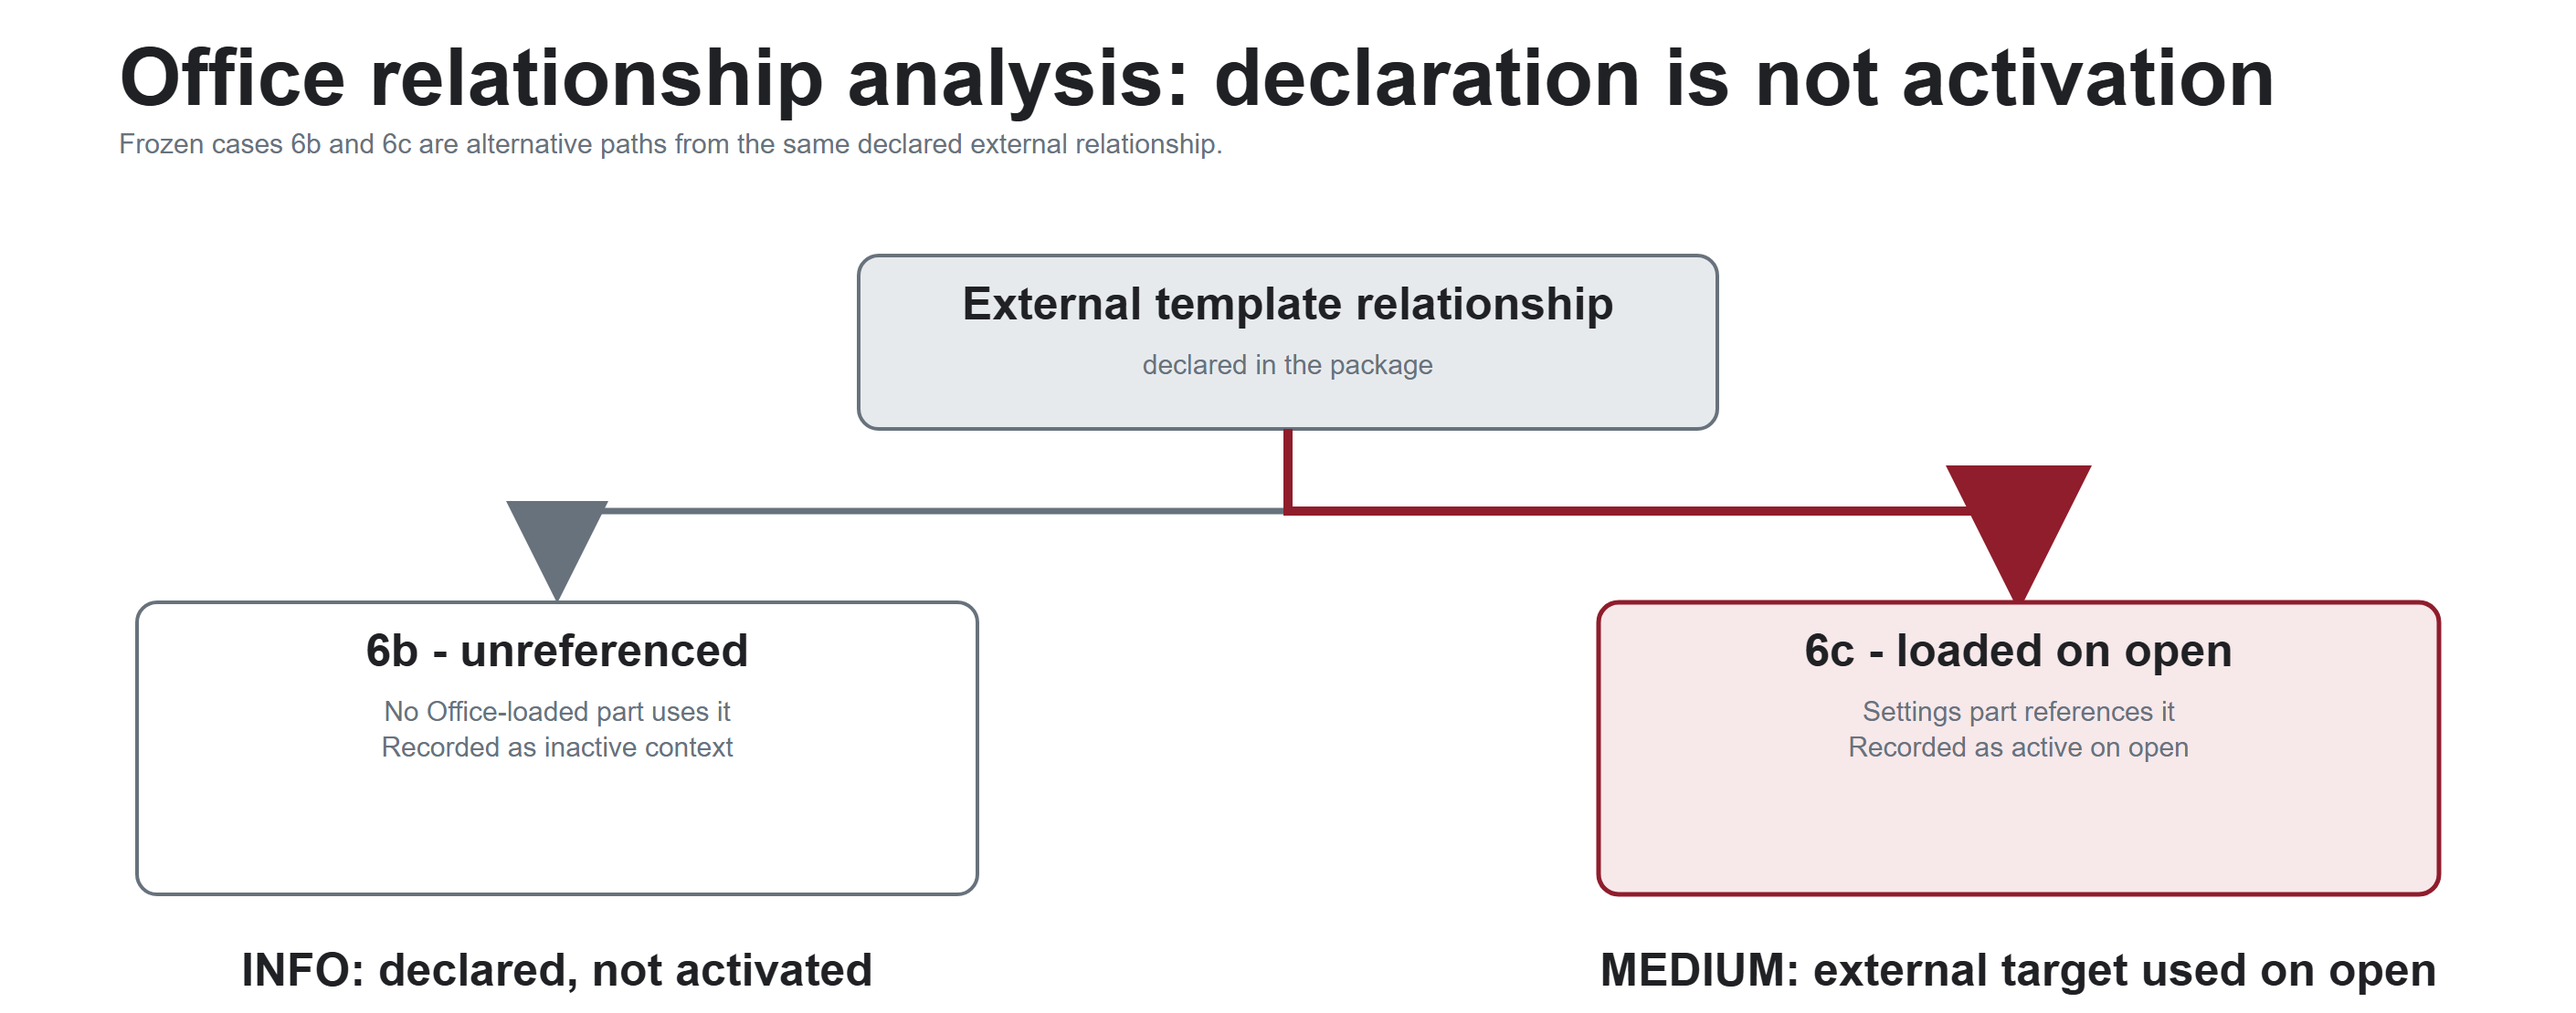
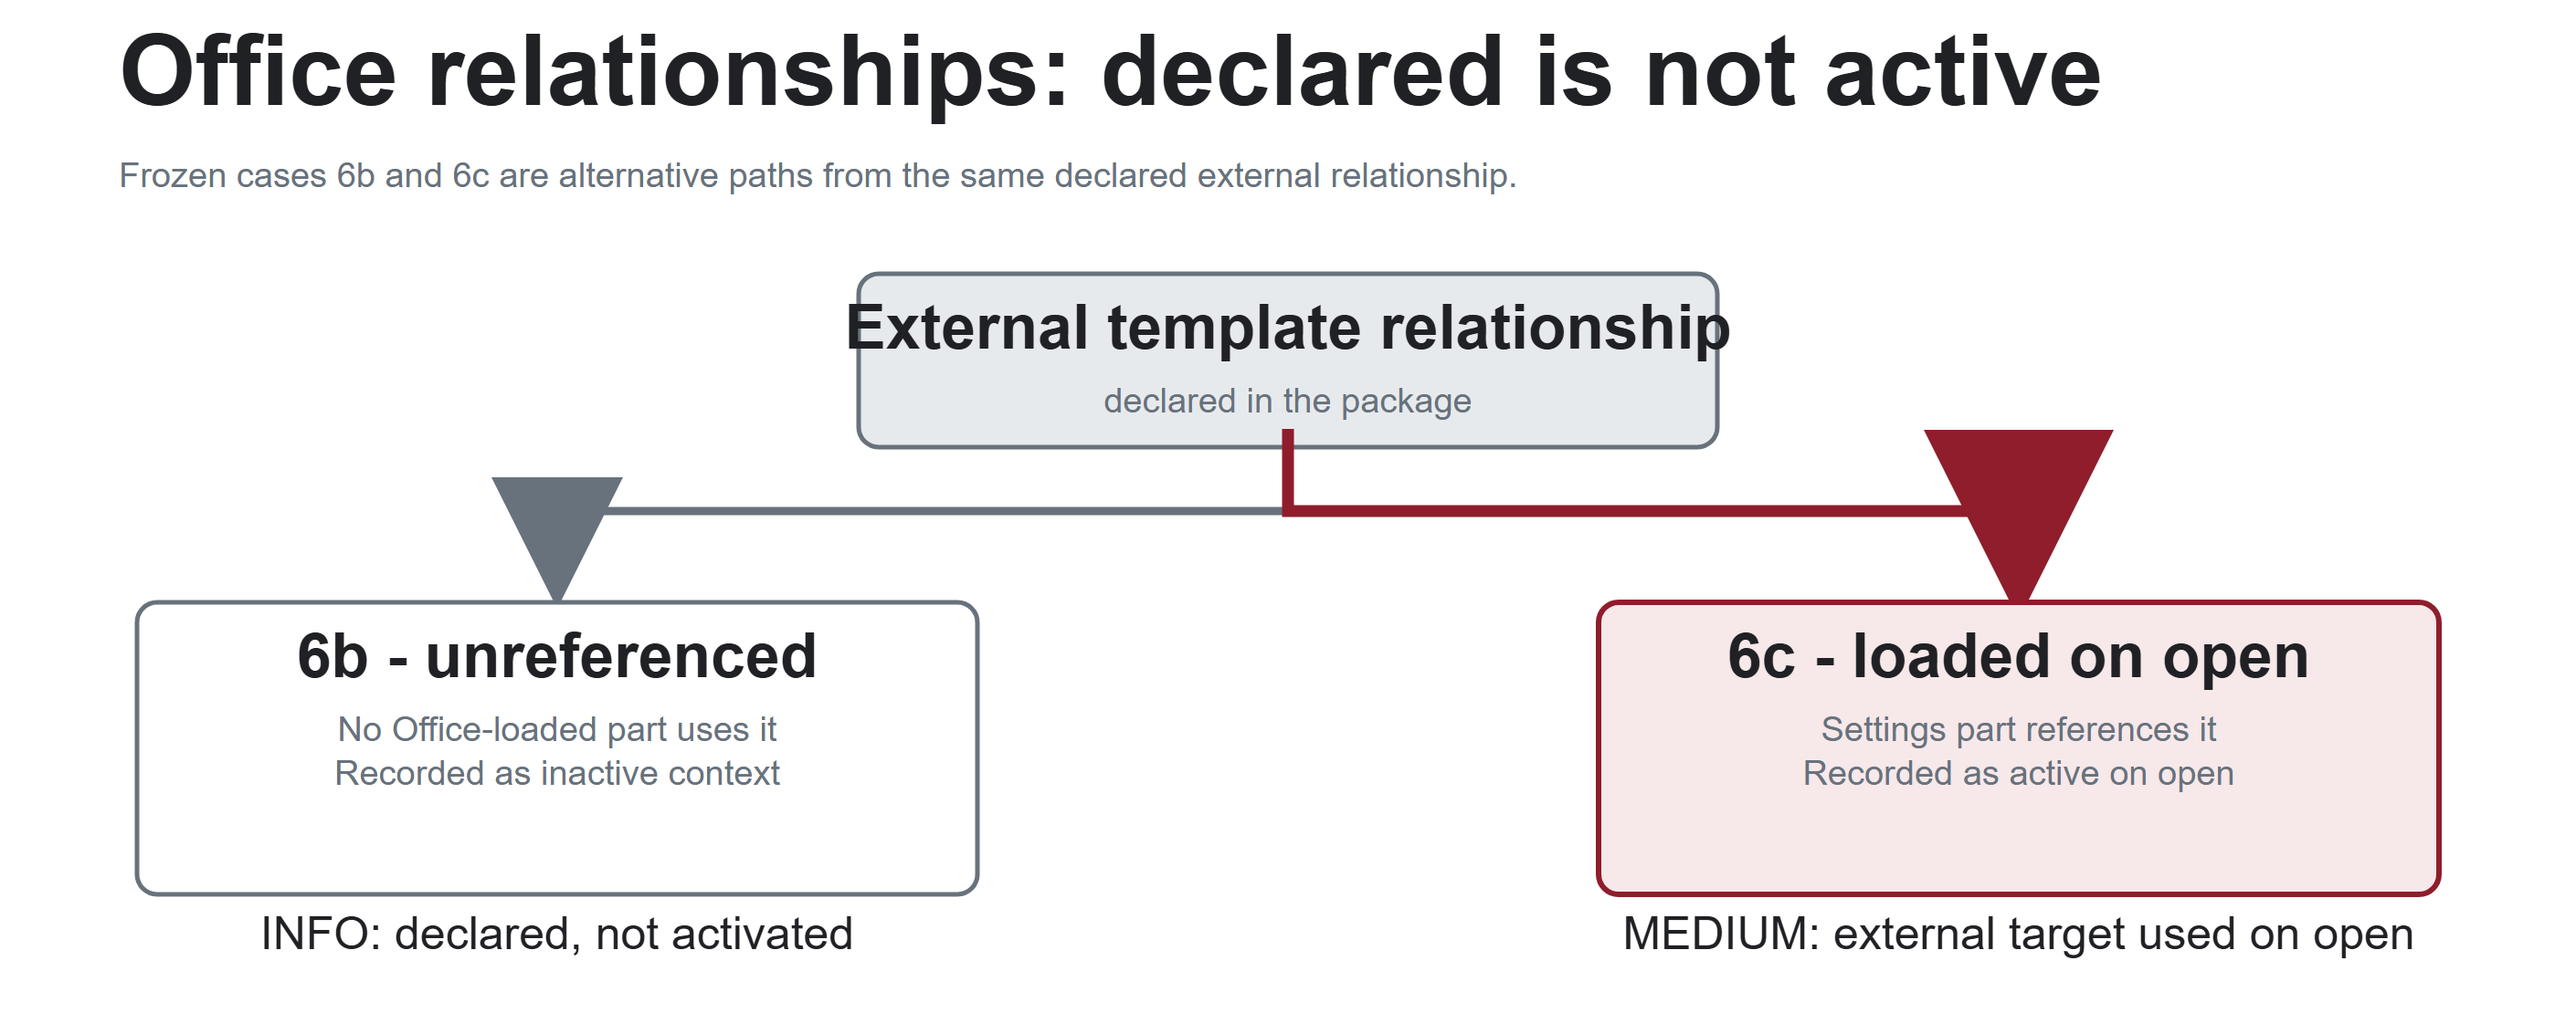
docs: improve poster figure readability

diff --git a/docs/poster/figures/source-audited-2026-11-14/generate_figures.py b/docs/poster/figures/source-audited-2026-11-14/generate_figures.py
@@ -9,12 +9,12 @@ FONT="Arial, Helvetica, sans-serif"
 FIGS={"01-introduction":(2820,2370,"Document feature versus dangerous behavior"),"02-methods":(6150,1380,"Implemented Security Engine workflow"),"03-pdf-correlation":(2820,1890,"PDF action-chain correlation"),"04-office-analysis":(2820,1110,"Office relationship analysis"),"05-latency":(2820,900,"Frozen scan latency comparison"),"06-results":(2760,2670,"Frozen results and hosted PDF regressions"),"07-conclusion":(2820,2190,"Research contributions and limitations")}
 
 def S(w,h,title,body):
- return f'''<svg xmlns="http://www.w3.org/2000/svg" width="{w}" height="{h}" viewBox="0 0 {w} {h}" role="img" aria-labelledby="title desc"><title id="title">{escape(title)}</title><desc id="desc">Source-audited FilesMagic Security Engine poster figure.</desc><rect width="100%" height="100%" fill="{WHITE}"/><style>text{{font-family:{FONT};fill:{INK}}}.t{{font-size:88px;font-weight:700}}.h{{font-size:50px;font-weight:700}}.b{{font-size:38px}}.s{{font-size:30px;fill:{GRAY}}}.xs{{font-size:26px;fill:{GRAY}}}.line{{stroke:{GRAY};stroke-width:7;fill:none}}.red{{stroke:{RED};stroke-width:10;fill:none}}.box{{fill:{PALE};stroke:{GRAY};stroke-width:4}}.pink{{fill:{PINK};stroke:{RED};stroke-width:5}}.white{{fill:{WHITE};stroke:{GRAY};stroke-width:4}}</style>{body}</svg>'''
+ return f'''<svg xmlns="http://www.w3.org/2000/svg" width="{w}" height="{h}" viewBox="0 0 {w} {h}" role="img" aria-labelledby="title desc"><title id="title">{escape(title)}</title><desc id="desc">Source-audited FilesMagic Security Engine poster figure.</desc><rect width="100%" height="100%" fill="{WHITE}"/><style>text{{font-family:{FONT};fill:{INK}}}.t{{font-size:108px;font-weight:700}}.h{{font-size:68px;font-weight:700}}.b{{font-size:50px}}.s{{font-size:38px;fill:{GRAY}}}.xs{{font-size:32px;fill:{GRAY}}}.line{{stroke:{GRAY};stroke-width:9;fill:none}}.red{{stroke:{RED};stroke-width:13;fill:none}}.box{{fill:{PALE};stroke:{GRAY};stroke-width:5}}.pink{{fill:{PINK};stroke:{RED};stroke-width:6}}.white{{fill:{WHITE};stroke:{GRAY};stroke-width:5}}</style>{body}</svg>'''
 def T(x,y,text,c="b",a="start"):
- gap={"t":98,"h":60,"b":48,"s":39,"xs":33}[c]
+ gap={"t":116,"h":78,"b":60,"s":48,"xs":39}[c]
  return "".join(f'<text x="{x}" y="{y+i*gap}" class="{c}" text-anchor="{a}">{escape(line)}</text>' for i,line in enumerate(text.split("\n")))
 def B(x,y,w,h,label,detail="",kind="white"):
- return f'<rect x="{x}" y="{y}" width="{w}" height="{h}" rx="22" class="{kind}"/>'+T(x+w/2,y+70,label,"h","middle")+(T(x+w/2,y+130,detail,"s","middle") if detail else "")
+ return f'<rect x="{x}" y="{y}" width="{w}" height="{h}" rx="22" class="{kind}"/>'+T(x+w/2,y+82,label,"h","middle")+(T(x+w/2,y+152,detail,"s","middle") if detail else "")
 def A(x1,y1,x2,y2,red=False):
  color=RED if red else GRAY
  return f'<path d="M{x1} {y1} L{x2} {y2}" stroke="{color}" stroke-width="{10 if red else 7}" fill="none" marker-end="url(#{"r" if red else "n"})"/>'
@@ -22,7 +22,7 @@ def D():
  return f'<defs><marker id="n" markerWidth="16" markerHeight="16" refX="13" refY="8" orient="auto"><path d="M0 0L16 8L0 16Z" fill="{GRAY}"/></marker><marker id="r" markerWidth="16" markerHeight="16" refX="13" refY="8" orient="auto"><path d="M0 0L16 8L0 16Z" fill="{RED}"/></marker></defs>'
 
 def intro():
- b=D()+T(140,145,"Document feature does not equal dangerous behavior","t")+T(140,205,"Static analysis asks whether an activation path is actually evidenced.","s")
+ b=D()+T(140,145,"Document features need context","t")+T(140,215,"Static analysis asks whether an activation path is actually evidenced.","s")
  b+=B(150,340,1160,1450,"Ordinary document features","often legitimate","white")
  for y,label,detail in [(600,"Form or link","a reader may choose to interact"),(920,"Attachment","may simply be present"),(1240,"Macro or script","may not be reached automatically")]: b+=B(280,y,900,190,label,detail,"box")
  b+=B(1510,340,1160,1450,"Potentially dangerous activation","requires a proven path","pink")
@@ -30,34 +30,34 @@ def intro():
  return b+f'<rect x="150" y="1930" width="2520" height="230" rx="24" class="box"/>'+T(1410,2025,"Presence alone is context. A verified path justifies a stronger finding.","h","middle")+T(1410,2080,"SAFE means no known indicator found by completed analysis - not proof of harmlessness.","s","middle")
 def methods():
  b=D()+T(120,115,"Implemented Security Engine workflow","t")+T(120,168,"Standalone research service: it does not invoke the FilesMagic conversion service.","s")
- for x,w,label,detail,kind in [(120,1100,"1  Upload","token, size, and hash checks","white"),(1510,1100,"2  Isolation","fresh worker and strict Linux controls","pink"),(2900,1460,"3  Analysis","reference, unified, and coverage checks","white"),(4650,1200,"4  Verdict","findings plus completeness","pink")]: b+=B(x,320,w,700,label,detail,kind)
+ for x,w,label,detail,kind in [(120,1100,"1  Upload","token, size, and hash checks","white"),(1510,1100,"2  Isolation","fresh worker and strict Linux controls","pink"),(2900,1460,"3  Analysis","reference, unified, and coverage checks","white"),(4650,1200,"4  Verdict","findings plus completeness","pink")]: b+=B(x,250,w,840,label,detail,kind)
  b+=A(1220,670,1480,670)+A(2610,670,2870,670,True)+A(4390,670,4620,670)+T(670,810,"file bytes accepted\nafter authorization","b","middle")+T(2060,810,"namespace, routes,\ncapabilities, limits","b","middle")
- b+=B(3060,570,1140,125,"Reference scanners","signatures, PDF, Office, structural","box")+B(3060,735,1140,125,"Unified research components","chains, activation, fields, correlation","pink")+B(3060,900,1140,125,"Coverage checks","required regions; fail closed","box")+T(5250,790,"SAFE\nSUSPICIOUS\nMALICIOUS\nUNABLE TO SCAN","h","middle")
+ b+=B(3060,500,1140,165,"Reference scanners","signatures, PDF, Office, structural","box")+B(3060,705,1140,165,"Unified research components","chains, activation, fields, correlation","pink")+B(3060,910,1140,165,"Coverage checks","required regions; fail closed","box")+T(5250,770,"SAFE\nSUSPICIOUS\nMALICIOUS\nUNABLE TO SCAN","h","middle")
  return b+f'<rect x="120" y="1130" width="5730" height="150" rx="20" class="box"/>'+T(2985,1195,"Reference scanners remain the baseline; the research engine adds structured evidence and coverage handling.","b","middle")
 def pdf():
- b=D()+T(130,125,"Same PDF ingredients. Different evidenced relationship.","t")+T(130,180,"Frozen cases 5a and 5b: severity changes only when the script is proven to reach the attachment.","s")
+ b=D()+T(130,125,"Same ingredients. Different relationship.","t")+T(130,210,"Frozen cases 5a and 5b: severity changes only when the script is proven to reach the attachment.","s")
  for x,case,outcome,linked in [(150,"5a - attachment is unrelated","SUSPICIOUS",False),(1480,"5b - script exports attachment","MALICIOUS",True)]:
   b+=B(x,310,1190,1220,case,"","pink" if linked else "white")+B(x+115,520,400,180,"Open action","automatic trigger","box")+A(x+315,710,x+315,875,True)+B(x+115,900,400,180,"JavaScript","active step","box")+B(x+675,900,400,180,"Attachment f","embedded file","box")
-  b+= A(x+530,990,x+650,990,True)+T(x+595,950,"exports f","h","middle") if linked else f'<path d="M{x+530} 990 H{x+650}" stroke="{GRAY}" stroke-width="9" stroke-dasharray="24 20"/><text x="{x+590}" y="950" class="h" text-anchor="middle">no path</text>'
+  b+= A(x+530,990,x+650,990,True)+T(x+595,870,"exports f","b","middle") if linked else f'<path d="M{x+530} 990 H{x+650}" stroke="{GRAY}" stroke-width="9" stroke-dasharray="24 20"/><text x="{x+590}" y="870" class="b" text-anchor="middle">no path</text>'
   b+=f'<rect x="{x+110}" y="1210" width="970" height="180" rx="18" fill="{PINK if linked else PALE}"/>'+T(x+595,1290,outcome,"t","middle")+T(x+595,1340,"unified engine outcome","s","middle")
- return b+T(1410,1690,"Reference: both MALICIOUS. Unified: only the evidenced delivery path remains MALICIOUS.","h","middle")+T(1410,1750,"Controlled synthetic fixtures - not a malware-detection accuracy measurement.","s","middle")
+ return b+T(1410,1690,"Unified result: 5a SUSPICIOUS; 5b MALICIOUS.","h","middle")+T(1410,1750,"Controlled synthetic fixtures - not a malware-detection accuracy measurement.","s","middle")
 def office():
- b=D()+T(130,115,"Office relationship analysis: declaration is not activation","t")+T(130,168,"Frozen cases 6b and 6c are alternative paths from the same declared external relationship.","s")+B(940,280,940,190,"External template relationship","declared in the package","box")
+ b=D()+T(130,115,"Office relationships: declared is not active","t")+T(130,205,"Frozen cases 6b and 6c are alternative paths from the same declared external relationship.","s")+B(940,300,940,190,"External template relationship","declared in the package","box")
  b+=f'<path d="M1410 470 V560 H610 V640" class="line" marker-end="url(#n)"/><path d="M1410 470 V560 H2210 V640" class="red" marker-end="url(#r)"/>'+B(150,660,920,320,"6b - unreferenced","No Office-loaded part uses it\nRecorded as inactive context","white")+B(1750,660,920,320,"6c - loaded on open","Settings part references it\nRecorded as active on open","pink")
- return b+T(610,1080,"INFO: declared, not activated","h","middle")+T(2210,1080,"MEDIUM: external target used on open","h","middle")
+ return b+T(610,1040,"INFO: declared, not activated","b","middle")+T(2210,1040,"MEDIUM: external target used on open","b","middle")
 def latency():
  b=T(130,110,"Frozen scan latency comparison","t")+T(130,162,"16 inert fixtures x 20 trials x engine = 320 scans per engine. Worker startup and IPC dominate wall time.","s")+f'<line x1="520" y1="730" x2="2660" y2="730" class="line"/>'
  for v in (0,200,400,600): x=520+v*3.35;b+=f'<line x1="{x}" y1="260" x2="{x}" y2="750" stroke="{PALE}" stroke-width="4"/>'+T(x,800,str(v),"xs","middle")
  for label,p50,p95,y,color in [("Reference",555.51,629.422,350,GRAY),("Unified",567.58,629.136,555,RED)]:
-  w=p50*3.35;b+=T(480,y+62,label,"h","end")+f'<rect x="520" y="{y}" width="{w}" height="105" rx="16" fill="{color}"/>'+T(550+w,y+68,f"p50 {p50:.1f} ms","h")+f'<line x1="{520+p95*3.35}" y1="{y-24}" x2="{520+p95*3.35}" y2="{y+130}" class="red"/>'+T(520+p95*3.35,y-40,f"p95 {p95:.1f}","xs","middle")
+  w=p50*3.35;b+=T(480,y+62,label,"h","end")+f'<rect x="520" y="{y}" width="{w}" height="105" rx="16" fill="{color}"/>'+f'<text x="{520+w-35}" y="{y+68}" class="b" text-anchor="end" style="fill:{WHITE}">p50 {p50:.1f} ms</text>'+f'<line x1="{520+p95*3.35}" y1="{y-24}" x2="{520+p95*3.35}" y2="{y+130}" class="red"/>'+T(520+p95*3.35,y-40,f"p95 {p95:.1f}","xs","middle")
  return b
 def results():
- b=T(130,125,"Results: frozen milestone + separate hosted PDF rescans","t")+T(130,180,"The Nov. 9 evaluation and Nov. 14 regressions are different experiments and are not combined.","s")+B(150,330,2460,1090,"Frozen standalone evaluation - Nov. 9","offline Ubuntu VM; strict isolation; evaluated code eda2a08","pink")
+ b=T(130,125,"Results: frozen evidence + hosted rescans","t")+T(130,215,"The Nov. 9 evaluation and Nov. 14 regressions are different experiments and are not combined.","s")+B(150,350,2460,1070,"Frozen standalone evaluation - Nov. 9","offline Ubuntu VM; strict isolation; evaluated code eda2a08","pink")
  b+=T(780,700,"114 / 114","t","middle")+T(780,765,"expected scan outcomes","h","middle")+T(1840,700,"11 / 11","t","middle")+T(1840,765,"contribution checks","h","middle")+f'<line x1="1380" y1="570" x2="1380" y2="870" class="line"/>'+T(1380,1010,"Controlled checks, not a malware-detection accuracy percentage.","b","middle")+T(1380,1110,"Every frozen result reported no missing required isolation control.","b","middle")
  b+=B(150,1580,2460,800,"Hosted research Lab rescans - Nov. 14","one SHA-256-matched rescan of each pinned qpdf fixture; unified engine; strict isolation reported","white")+B(280,1880,980,250,"V4-aes.pdf","SAFE\n6 complete, 4 not applicable, 0 failed","box")+B(1500,1880,980,250,"bad-data.pdf","UNABLE TO SCAN\nLZW content decoding failed","pink")
  return b+T(1380,2260,"Evidence scope: two selected benign/parser-stress regressions; no repeated hosted trials or accuracy claim.","s","middle")
 def conclusion():
- b=T(130,130,"What the research demonstrated - and what it did not","t")+T(130,185,"Standalone static-analysis research prototype, not a production conversion gate.","s")+B(150,340,1210,1320,"Demonstrated","three source-backed contributions","pink")+B(1460,340,1210,1320,"Still limited","three essential boundaries","white")
+ b=T(130,130,"What this research shows - and does not","t")+T(130,220,"Standalone static-analysis research prototype, not a production conversion gate.","s")+B(150,360,1210,1300,"Demonstrated","three source-backed contributions","pink")+B(1460,360,1210,1300,"Still limited","three essential boundaries","white")
  for i,s in enumerate(["Contextual PDF chains separate\nunrelated from delivered attachments.","Office/VBA analysis records\nactivation and call-path evidence.","Coverage gaps can fail closed\nin the unified research engine."]): b+=f'<circle cx="245" cy="{650+i*340}" r="25" fill="{RED}"/>'+T(305,660+i*340,s,"b")
  for i,s in enumerate(["No production FilesMagic\nconverter integration.","No real-world malware-detection\naccuracy claim.","No document execution; worker\ncontainment is not a full sandbox."]): b+=f'<circle cx="1555" cy="{650+i*340}" r="25" fill="{GRAY}"/>'+T(1615,660+i*340,s,"b")
  return b+f'<rect x="150" y="1820" width="2520" height="200" rx="22" class="box"/>'+T(1410,1910,"Future production gate: SAFE + complete + required coverage + required isolation.","h","middle")+T(1410,1970,"That integration is proposed, not implemented.","s","middle")
